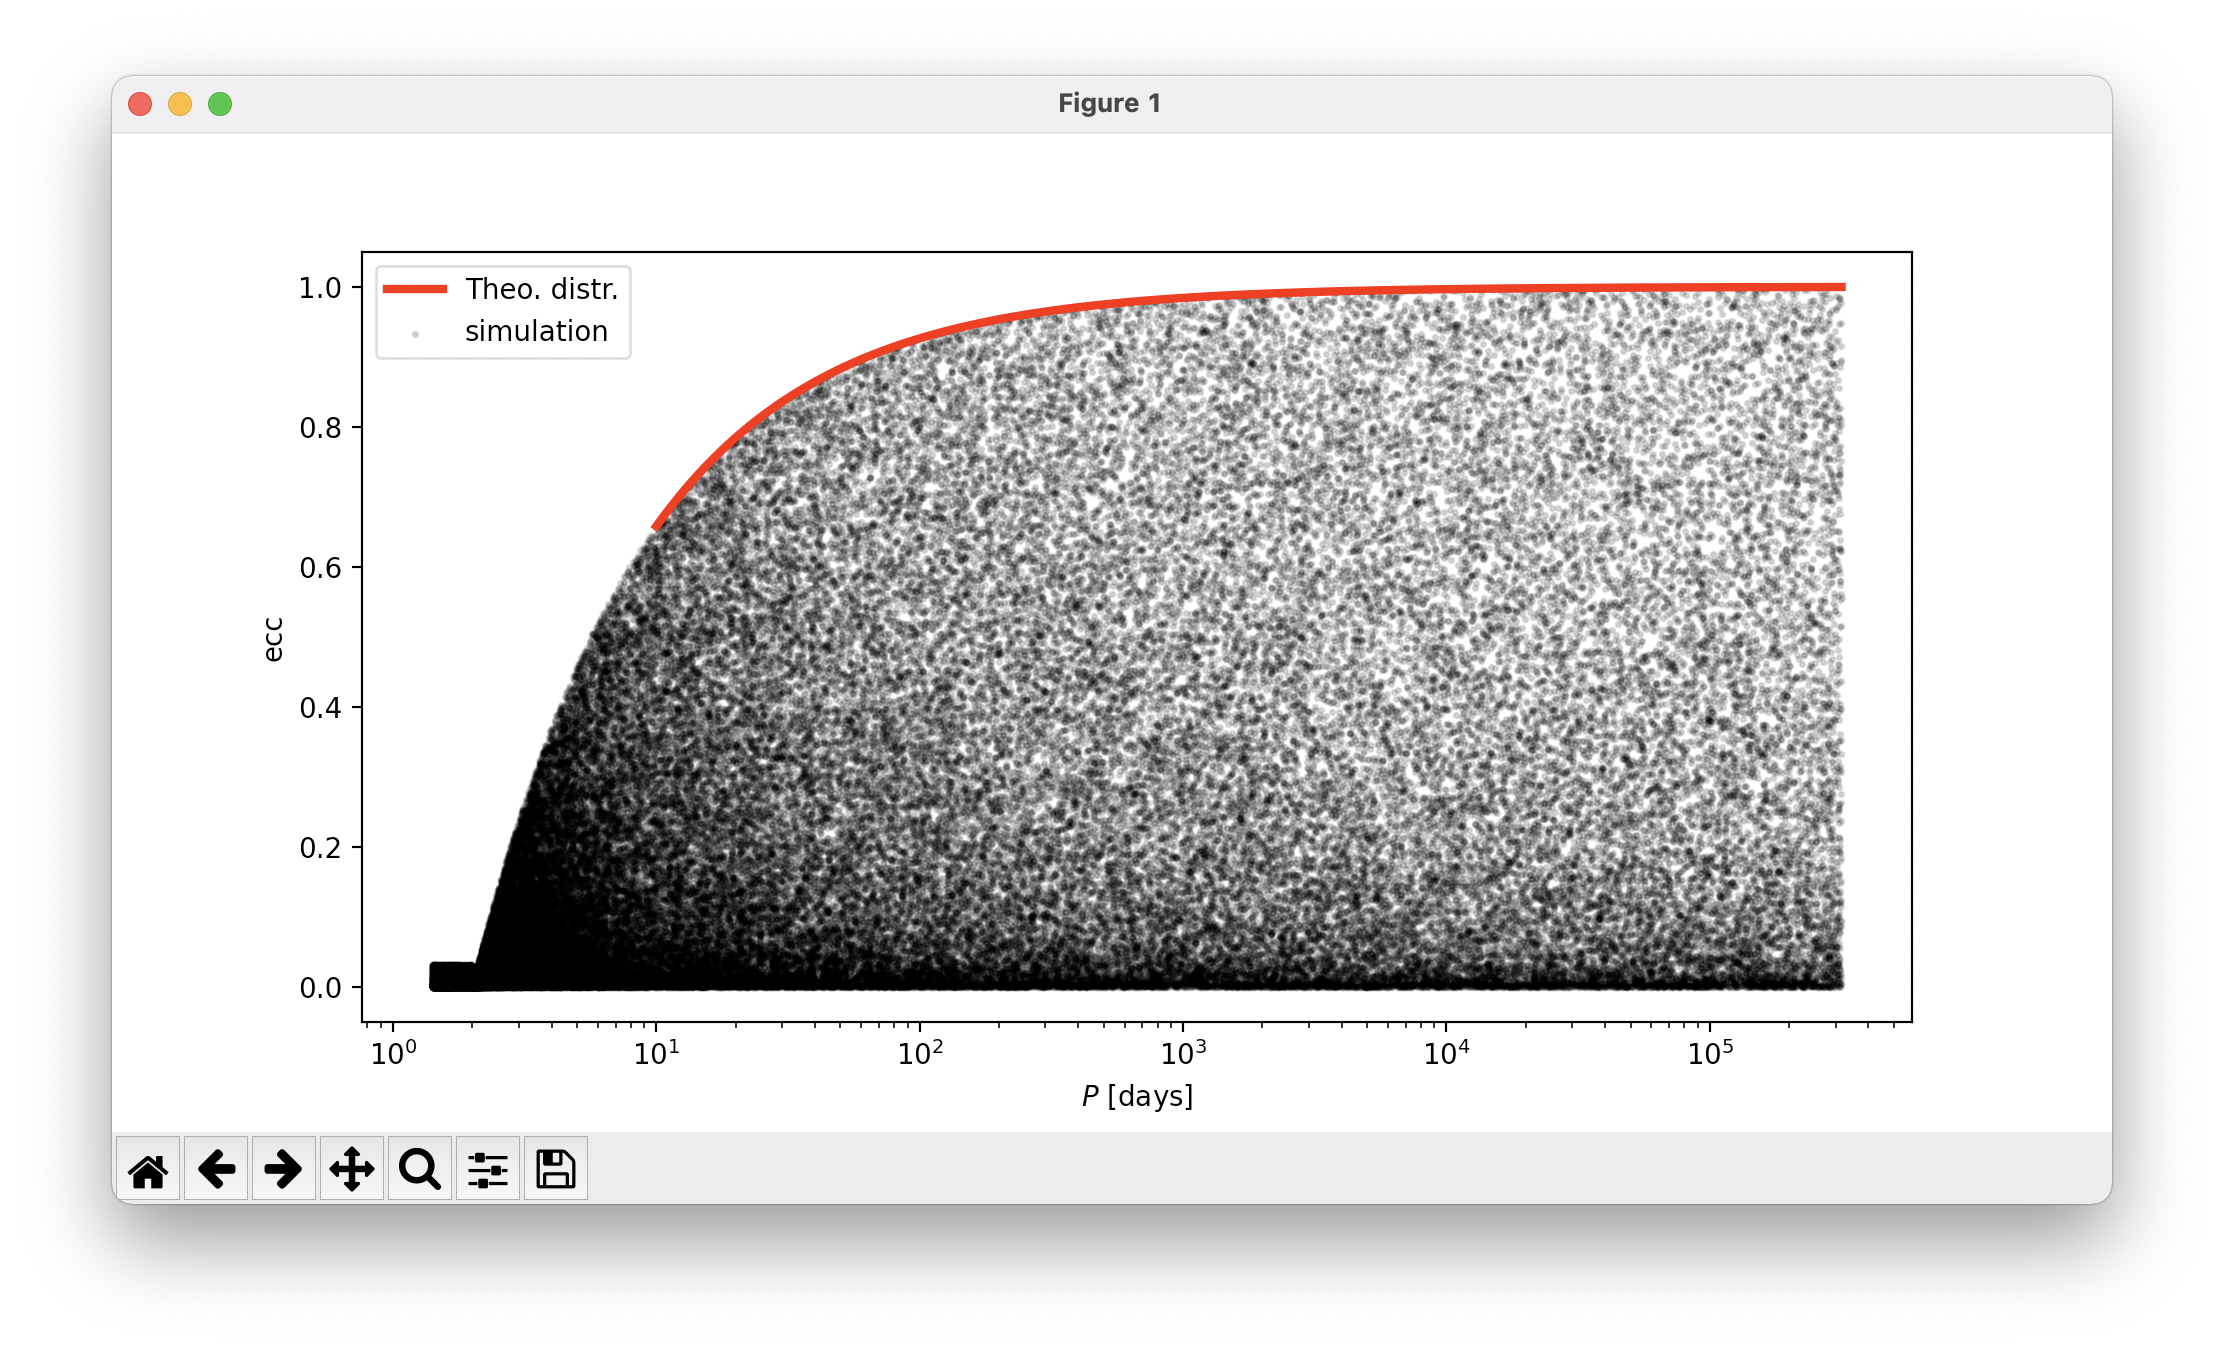
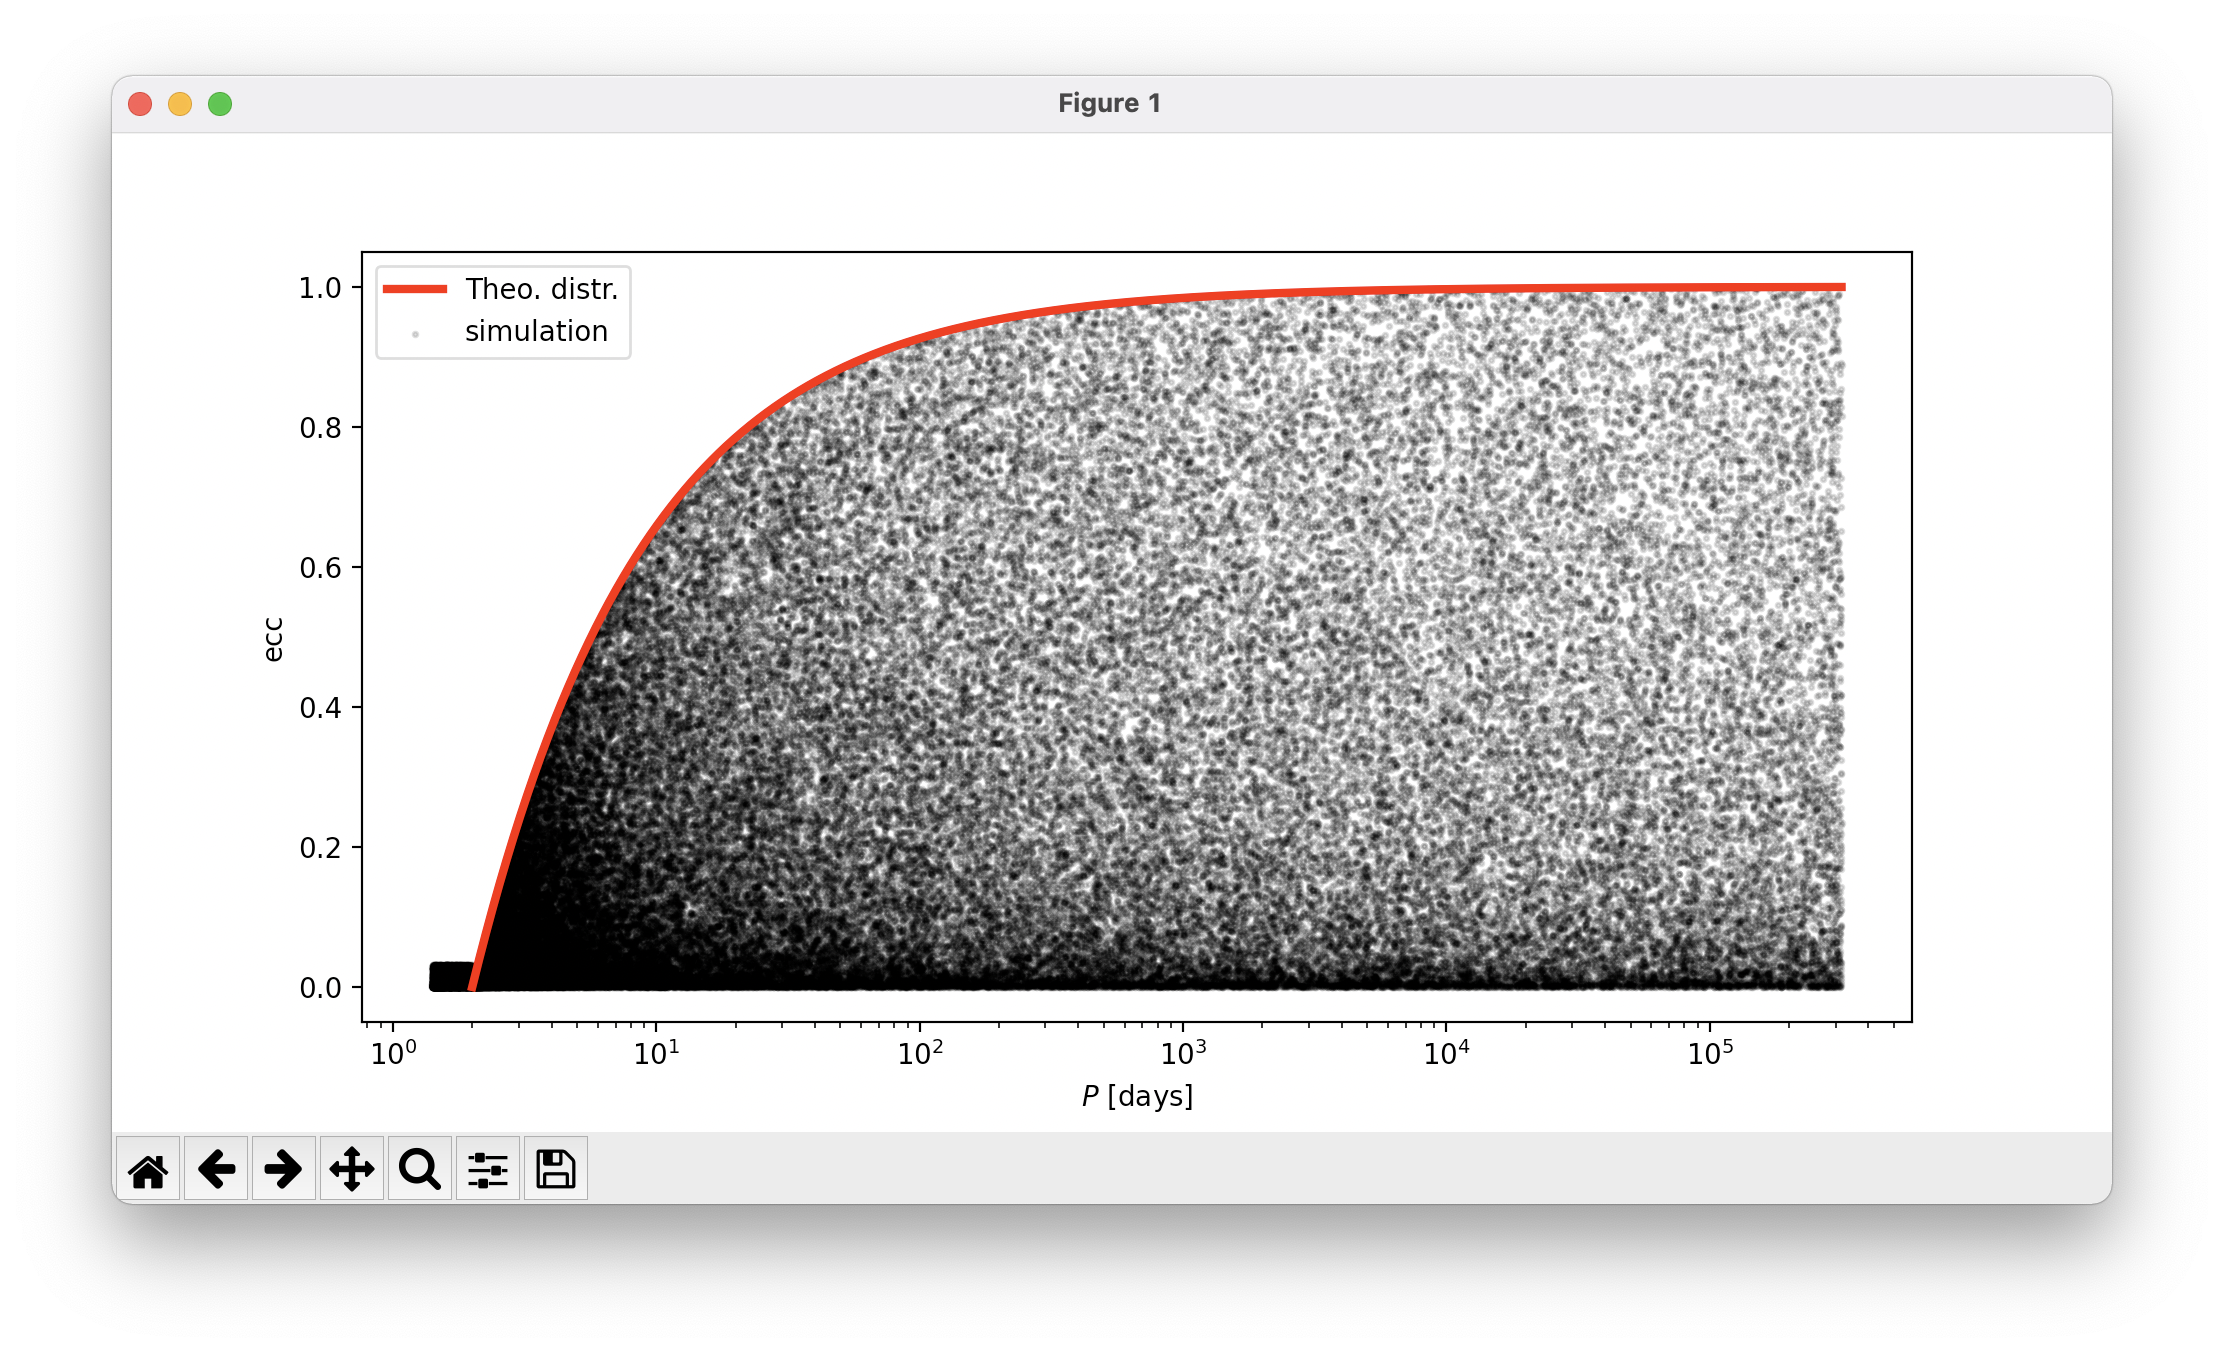
new plot

Changed region(s): [[0.2172, 0.2175, 0.8377, 0.7456]]

diff --git a/tests/test_plots.py b/tests/test_plots.py
@@ -60,7 +60,7 @@ def SanaMDS_plots(Nbin):
     fig, ax = plt.subplots(nrows=1, ncols=1, figsize=[10,5])
 
     # theoretical function
-    x = np.logspace(1,5.5,1000)
+    x = np.logspace(np.log10(2),5.5,1000)
     y = tools.eccvsP(x)
     ax.plot(x,y,c='r', lw=3, label='Theo. distr.')
     # samples
